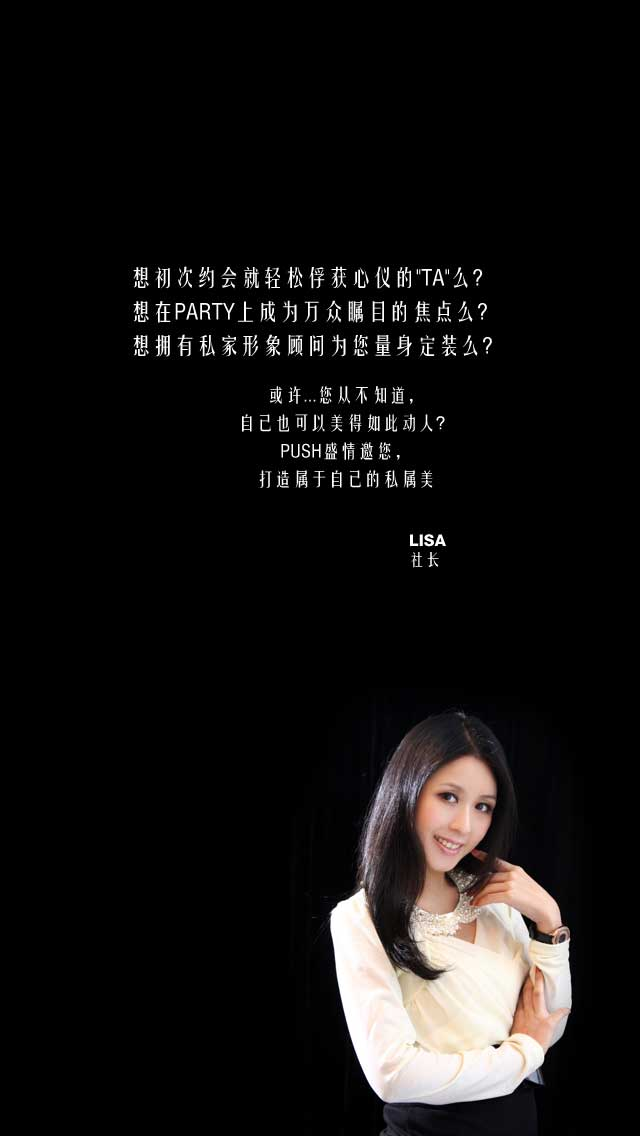
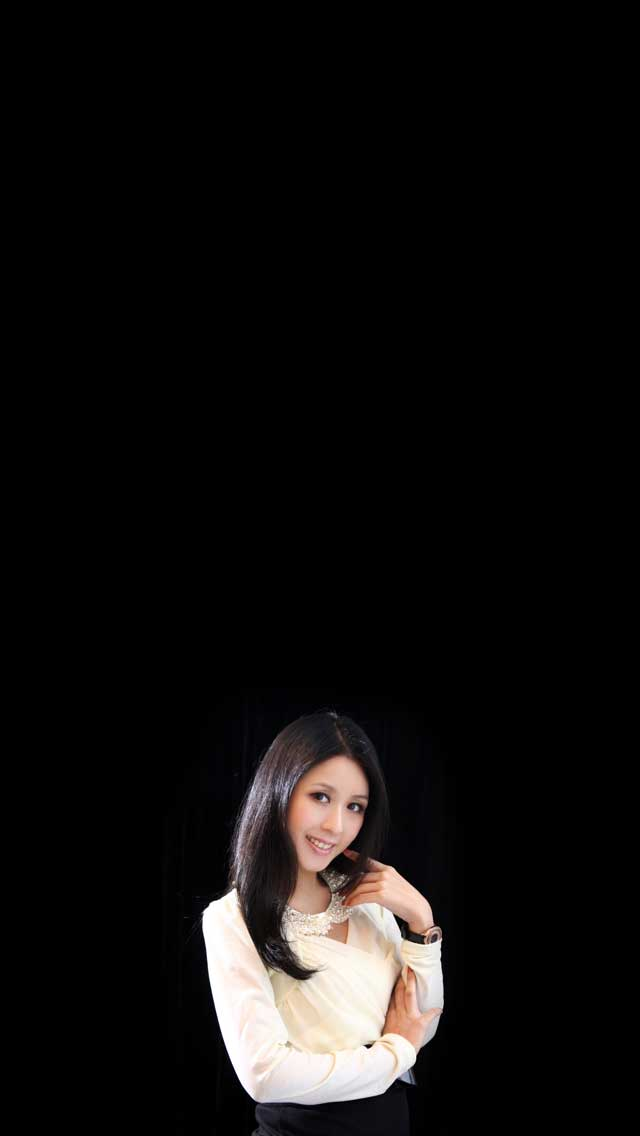
change for first

diff --git a/lisa/css/you.css b/lisa/css/you.css
@@ -70,7 +70,7 @@ textarea:focus,input:focus { border: 1px solid #71b643; }
  */
 .u-arrow { position: fixed; bottom: 150px; left:50%; z-index: 150; width: 84px; height: 56px; margin-left: -42px; /*background: rgba(160,160,160,0.6); border-radius: 50%;*/ }
 .u-arrow p {
-background:url(http://mat1.gtimg.com/news/2014/zt/mh17/you/images/upslide.png) no-repeat;
+background:url(../images/upslide.png) no-repeat;
 position: absolute; top: 50%; left: 50%; margin: -28px 0 0 -42px; width: 84px; height: 56px; 
 	-webkit-animation: start 1.5s infinite ease-in-out;
 	   -moz-animation: start 1.5s infinite ease-in-out;
@@ -90,11 +90,11 @@ position: absolute; top: 50%; left: 50%; margin: -28px 0 0 -42px; width: 84px; h
 .u-audio .btn_audio .audio_open { display: inline-block; height: 50px; line-height: 50px; vertical-align: middle; }
 .u-audio .btn_audio strong { width: 57px; font-size: 24px; color: #fff; opacity: 1; }
 .u-audio .btn_audio .audio_open {
-	background:url(http://mat1.gtimg.com/news/2014/zt/mh17/you/images/music_open.png) no-repeat;
+	background:url(../images/music_open.png) no-repeat;
 	position: absolute; bottom: 0; left: 56px; width: 50px; 
 }
 .u-audio .btn_audio .audio_close {
-	background:url(http://mat1.gtimg.com/news/2014/zt/mh17/you/images/music_close.png) no-repeat;
+	background:url(../images/music_close.png) no-repeat;
 	position: absolute; bottom: 0; left: 56px; width: 50px; 
 }
 .u-audio .btn_audio strong.z-hide { opacity: 0; }
@@ -422,34 +422,20 @@ position: absolute; top: 50%; left: 50%; margin: -28px 0 0 -42px; width: 84px; h
 .s1_logo img,.s2_t img{
 	display:inline-block;
 }
-.s1_logo .s1_mh17{
+.s1_logo .s1_txt{
 	display:inline-block;
-	width: 358px;
-	height: 94px;
-	background:url(http://mat1.gtimg.com/news/2014/zt/mh17/you/images/mh17.png) no-repeat;
+	width: 391px;
+	height: 357px;
+	background:url(../images/lisa-text.png) no-repeat;
 }
-.s1_logo .s1_t{
-	margin-top: 20px;
-	display:inline-block;
-	width: 328px;
-	height: 130px;
-	background:url(http://mat1.gtimg.com/news/2014/zt/mh17/you/images/s1_t.png) no-repeat;
-}
-.s1_txnews{
-	width: 188px;
-	height: 44px;
-	background:url(http://mat1.gtimg.com/news/2014/zt/mh17/you/images/txnews.png) no-repeat;
-	position:absolute;
-	bottom: 80px;
-	left: 50%;
-	margin-left: -94px;
-}
+
+
 .last_txnews{
 	margin-top: 40px;
 	display:inline-block;
 	width: 190px;
 	height: 38px;
-	background:url(http://mat1.gtimg.com/news/2014/zt/mh17/you/images/txnews2.png) no-repeat;
+	background:url(../images/txnews2.png) no-repeat;
 }
 .details {
 	padding: 20% 16% 0;

diff --git a/lisa/index.html b/lisa/index.html
@@ -86,10 +86,8 @@
 			<div class='m-page m-fengye f-hide' data-page-type='info_pic3' data-statics='info_pic3'>
 				<div class="page-con lazy-img" data-src="images/s1.jpg">
 					<div class="s1_logo">
-						<div class="s1_mh17"></div>
-						<div class="s1_t"></div>
+						<div class="s1_txt"></div>
 					</div>
-					<div class="s1_txnews"></div>
 				</div>
 			</div>
 			<!-- 1 封面 E -->
